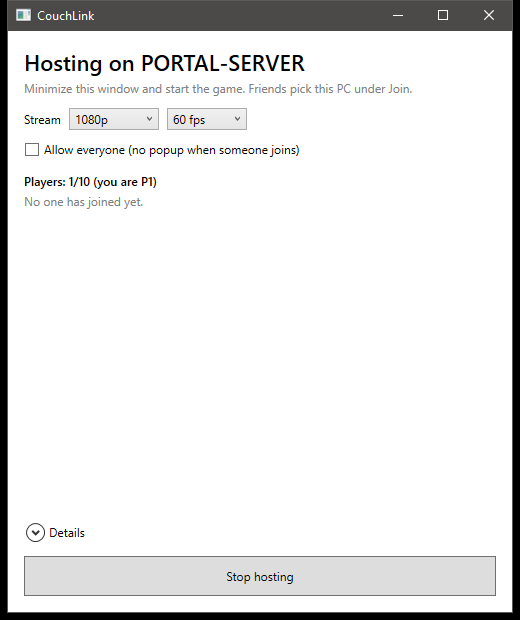
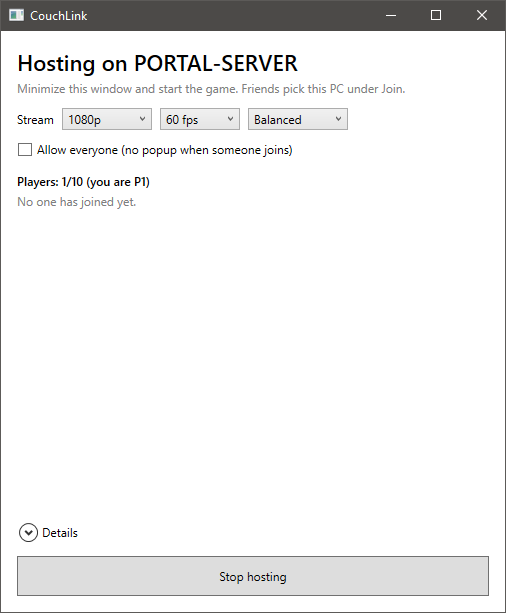
docs: host lobby screenshots with the Quality setting

Changed region(s): [[0.0, 0.0, 1.0, 1.0], [0.83, 0.0, 0.8597, 0.031]]

diff --git a/docs/cafe-setup-guide.md b/docs/cafe-setup-guide.md
@@ -249,6 +249,8 @@ The host lobby's **Stream** setting picks the resolution (Native, 1080p,
 monitor's refresh rate) and the quality (Low, Balanced, High, Max). Higher
 settings look sharper and need more from the host's GPU and the network.
 
+![The Quality setting in the host lobby](images/host-lobby-quality.png)
+
 - Start with **1080p** at **60 fps** and **Balanced**. On older or smaller
   GPUs, or if joining players see stutter, try **900p** or **720p**, or
   **Low**.
@@ -265,6 +267,12 @@ settings look sharper and need more from the host's GPU and the network.
 - From version 1.6.2, **Details** also shows "GPU priority: realtime" (or
   "high"). CouchLink asks Windows to run its capture and encoding ahead of
   the game on the GPU, so a busy game doesn't starve the stream.
+- **Details** also shows the quality and the bitrate. At **High** and
+  **Max** the encoder reads `h264_amf (balanced)` or `h264_nvenc (p3)`, a
+  slower setting that keeps more detail. If the card can't run it, CouchLink
+  uses the normal `h264_amf` or `h264_nvenc` instead.
+
+![Details at Max quality](images/host-lobby-details.png)
 
 ### Reading F2 on a joining PC
 
